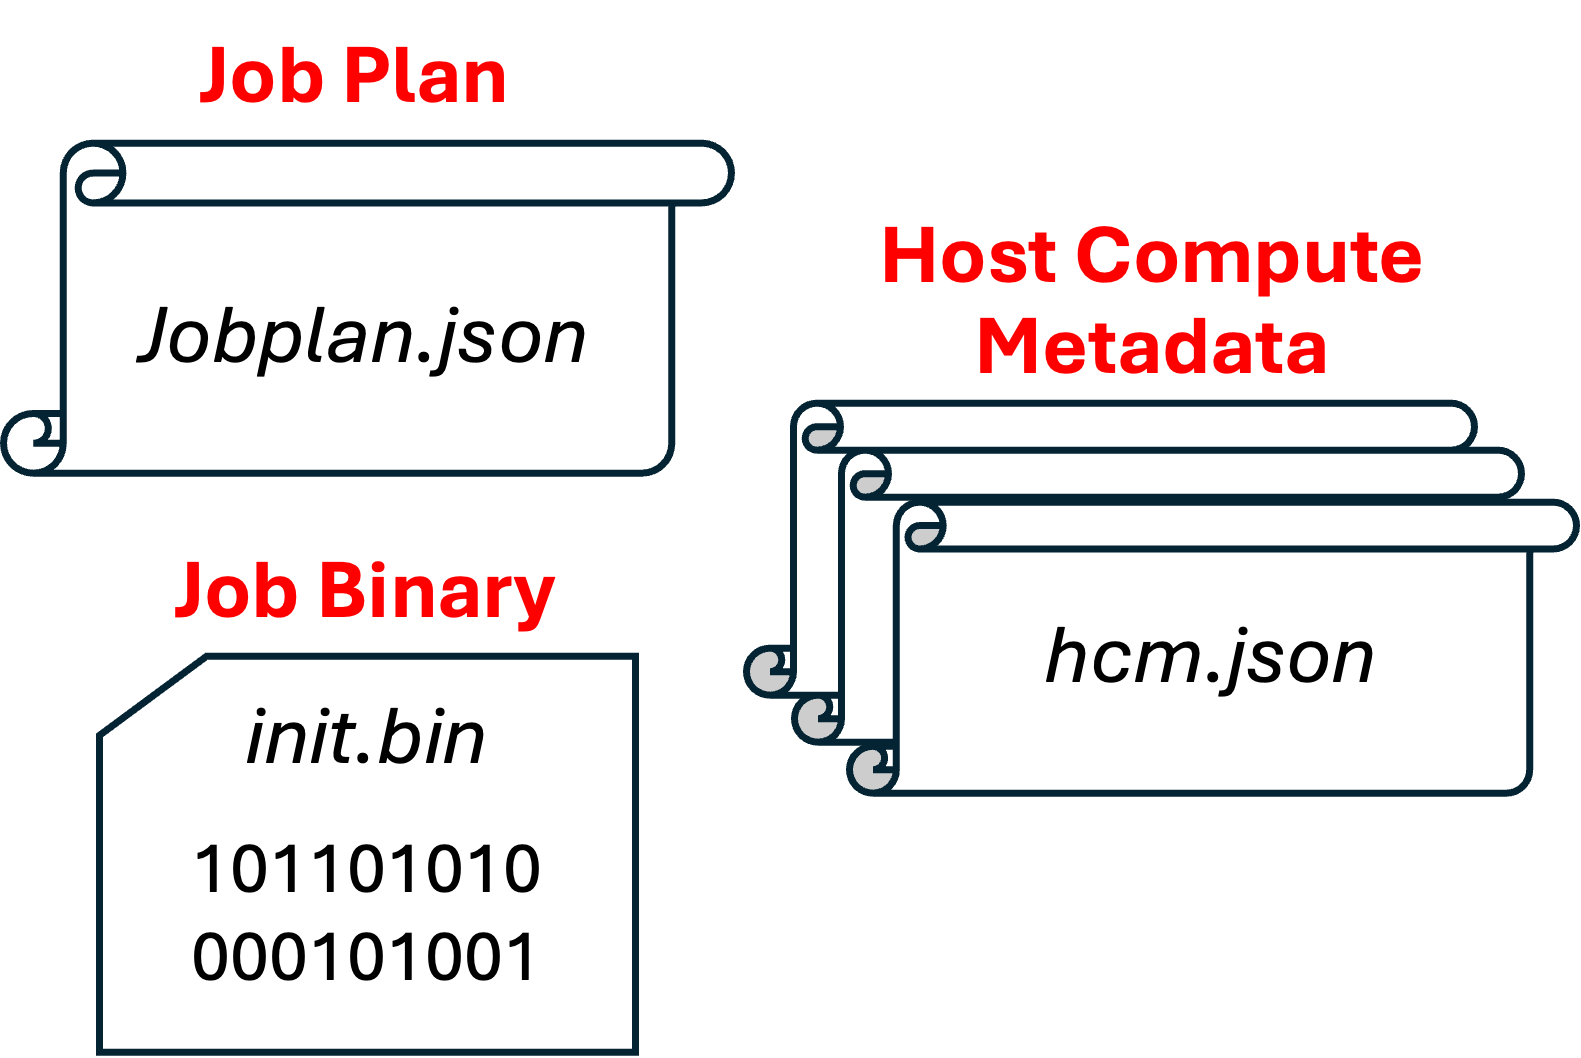
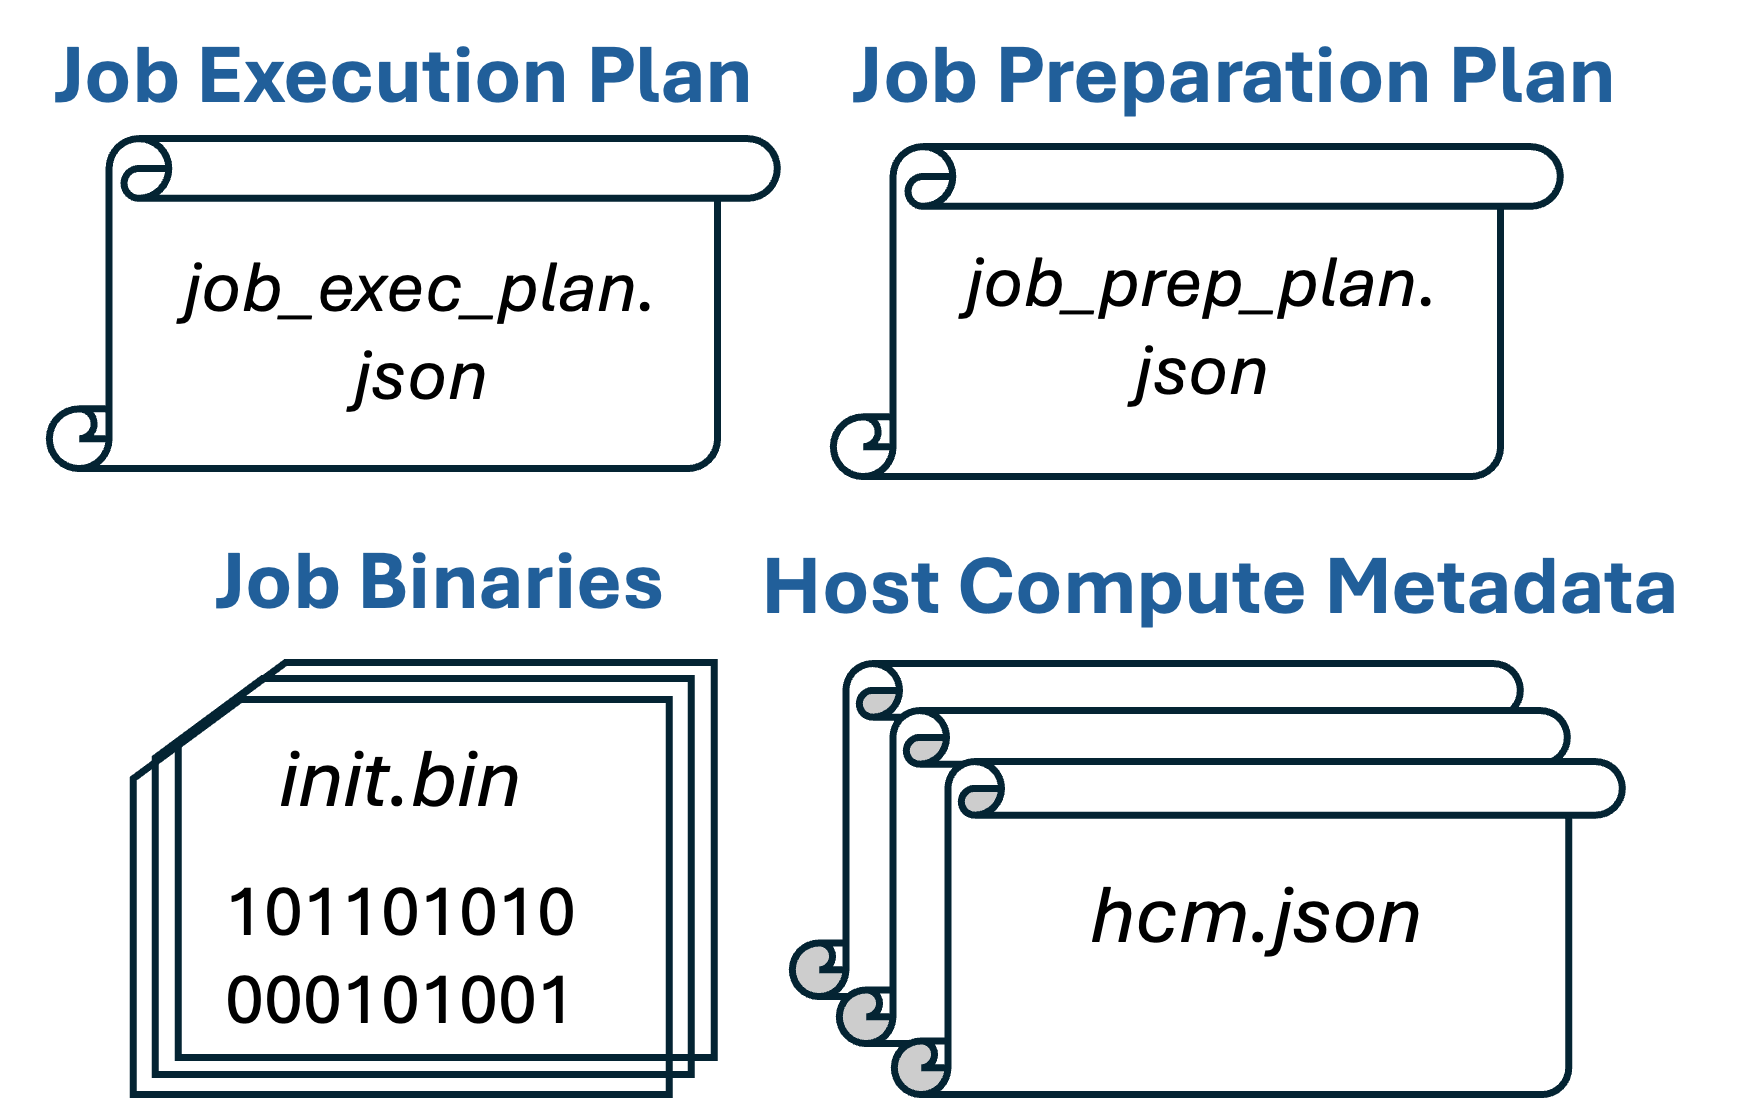
Updates to spyrecode seperating job prep and job execute plans

Changed region(s): [[0.062, 0.0312, 1.0, 0.9981], [0.0, 0.0312, 0.4649, 0.4679], [0.6199, 0.811, 0.8368, 0.8733]]

diff --git a/0277-SpyreCode/0277-SpyreCodeSpec.md b/0277-SpyreCode/0277-SpyreCodeSpec.md
@@ -18,8 +18,9 @@ The execution of a computation kernel on the Spyre device is referred to as a <u
 
 ### Components of `SpyreCode`
 `SpyreCode` facilites the runtime to execute a job on Spyre. It comprises of 3 components:
-* Job plan
-* Job Binary a.k.a. `init.bin`
+* Job execution plan
+* Job preparation plan
+* Job Binaries (a.k.a. `init.bin`)
 * Host Compute Metadata
 
 <p align="center">
@@ -33,9 +34,9 @@ In the virtual address space corresponding to a job, the last segment (SegmentId
 
 The following sections detail the different components of `SpyreCode`.
 
-### Job Plan
+### Job Execution Plan
 
-The Job plan is a JSON object containing a list of commands (List\<JobPlanCommand\>). The runtime executes the commands in sequence to complete the execution of the job. Each command in the job plan is comprised of a command type and its associated attributes.
+The job execution plan is a JSON object containing a list of commands (List\<JobExecPlanCommand\>). The runtime executes the commands in sequence to complete the execution of the job. Each command in the job plan is comprised of a command type and its associated attributes.
 
 The command types in `JobPlanCommand` and their attributes are explained below:
 * `ComputeOnHost`: Triggers execution of a predefined host function API. Its attributs are:
@@ -51,15 +52,25 @@ The command types in `JobPlanCommand` and their attributes are explained below:
   * `host_handle`: A handle for the tensor on the host side.
   * `size`: Size of the data transfer (in Bytes)
   * `dev_ptr`: Starting virtual address where the tensor resides in the device (limited to SegmentId=7). Spyre requires start address to be a multiple of 128B.
+
+### Job Preparation Plan
+
+The job preparation plan is a JSON object containing a list of commands (List\<JobPrepPlanCommand\>). The runtime executes the commands in sequence as a preparation to running the actual job (as given by Job execution plan) on Spyre. The job preparation plan needs to be executed only once, and every subsequent invokation of the job does not need the preperation step. Each command in the job plan is comprised of a command type and its associated attributes.
+
 * `Allocate`: Requests the runtime to allocate space on the device memory. From a virtual address point-of-view, the space is allocated in SegmentId=7 starting from address 0. The 3 uses of the space are: (a) to store the job binary (programs that will run on Spyre cores), (b) to store data needed to effect program correction supporting symbolic start address and tensor/compute shapes and (c) (if required) intermediate data tensors that are allocated in the device memory during backend compilation.
   * `size`: Size of allocation (in Bytes)
   * `breakdown_jobbinary`: Size of job binary (in Bytes)
   * `breakdown_correctiondata`: Size of the data needed for program correction owing to symbolic start address and shapes (in Bytes)
   * `breakdown_tensordata`: Size of intermediate data tensors that spilled over to device memory (in Bytes)
 
-### Job Binary a.k.a. `init.bin`
+* `InitTransfer`: Triggers the transfer of the init (`init.bin`) from host to Spyre. 
+  * `file_path`: Path of `init.bin` file on the host side.
+  * `size`: Size of the init transfer (in Bytes)
+  * `dev_ptr`: Starting virtual address where the init resides in the device (limited to SegmentId=7). Spyre requires start address to be a multiple of 128B.
 
-The `init.bin` is a binary file (not in text format) that contains all programs for the kernel. The runtime is responsible for transferring the job binary from host to the Spyre device’s memory. The job binary is required to be placed at virtual address \<SegmentId=7, address 0\>.
+### Job Binaries a.k.a. `init.bin`
+
+The `init.bin` is a set of binary files (not in text format) that contains the inits (programs for Spyre compute cores) needed to execute the kernel. The runtime transfers the job binaries from host to the Spyre device’s memory as given by the `InitTransfer` command in the Job Preparation Plan.
 
 ### Host Compute metadata:
 
@@ -68,32 +79,48 @@ The host compute metadata is provided as an input to the `ComputeOnHost` job com
 
 ### Execution Flow Examples
 
-#### Example1: Job plan for execution of a kernel with fixed tensor addresses and shapes
+#### Example1: Job preparation and execution plan for a kernel with fixed tensor addresses and shapes
+
+In this example, the compute kernel has tensors with fixed addresses and shapes. 
 
 ```
+A) Job preparation plan
 1. Allocate size=49152, breakdown_jobbinary=32768, breakdown_correctiondata=0, breakdown_tensordata=16384
-2. ComputeOnDevice job_bin_ptr=0x1C00000000
+2. InitTransfer file_path=init.bin, size=32768, dev_ptr=0x1C00000080
+
+B) Job Execution plan
+1. ComputeOnDevice job_bin_ptr=0x1C00000080
 ```
 
-In this example, the compute kernel has tensors with fixed addresses and shapes. In this case, the job plan in `SpyreCode` comprises of a sequence of 2 commands, an `Allocate` and a `ComputeOnDevice`. The `Allocate` indicates total amount of memory the needs to be reserved in SegmentId=7. In this example, a total of 49512 bytes is shown in the `size` attribute. The command further provides a breakdown of the 49512 bytes into 32768 bytes used to store the job binary (`breakdown_jobbinary`) and 16384 bytes used to hold an intermediate data tensor (`breakdown_tensordata`). The `ComputeOnDevice` launches execution on Spyre with the job binary located at a virtual address of 0x1C00000000.
+The job preparation plan in `SpyreCode` comprises of a sequence of 2 commands, `Allocate` and `InitTransfer`. The `Allocate` indicates total amount of memory the needs to be reserved in SegmentId=7. In this example, a total of 49512 bytes is shown in the `size` attribute. The command further provides a breakdown of the 49512 bytes into 32768 bytes used to store the job binary (`breakdown_jobbinary`) and 16384 bytes used to hold an intermediate data tensor (`breakdown_tensordata`). The `InitTransfer` command requests runtime to move the init binary present in file `init.bin` of size 32768 into a specific offset 0x080 in SegmentId=7 (virtual Address = 0x1C00000080).
 
-#### Example2: Job plan for execution of a kernel with symbolic tensor addresses and shapes
+The job execution plan comprises of a single `ComputeOnDevice` command. The `ComputeOnDevice` launches execution on Spyre with the job binary located at a virtual address of 0x1C00000080.
+
+
+#### Example2: Job preparation and execution plan for a kernel with symbolic tensor addresses and shapes
 
 This ia a more complex example, wherein the compute kernel has tensors with symbolic start addresses and shapes. The symbol values are known only during kernel invocation and can change across consecutive lauches of the same kernel. They are fed as input arguments when the kernel is invoked.
 
-With symbolic tensor address/shapes, the job binary produced by the backend compiler cannot be executed as-is on the hardware. It needs to be edited just-in-time knowing the symbol values. This process is referred to as *program correction*. It is accomplished using the following job plan.
+With symbolic tensor address/shapes, the job binary produced by the backend compiler cannot be executed as-is on the hardware. It needs to be edited just-in-time knowing the symbol values. This process is referred to as *program correction*. It is accomplished using the following job preparation and execution plans.
 
 ```
+A) Job preparation plan
 1. Allocate size=51200, breakdown_jobbinary=32768, breakdown_correctiondata=2048, breakdown_tensordata=16384
-2. ComputeOnHost ihandle=iargs, ishape=[4], ohandle=T1, oshape=[16 128], hcm=hcm.json
-3. DataTransfer direction=0 host_handle=T1 size=2048 dev_ptr=0x1C00008000
-4. ComputeOnDevice job_bin_ptr=0x1C00000000
+2. InitTransfer file_path=init.bin, size=32768, dev_ptr=0x1C00000090
+
+B) Job Execution plan
+1. ComputeOnHost ihandle=iargs, ishape=[4], ohandle=T1, oshape=[16 128], hcm=hcm.json
+2. DataTransfer direction=0 host_handle=T1 size=2048 dev_ptr=0x1C00000080
+3. ComputeOnDevice job_bin_ptr=0x1C00000090
 ```
 
-In this case, the job plan comprises of 4 commands.
+The job prepration plan is comprised of 2 commands. 
 * The first command is `Allocate` where 51200 bytes of data is requested, 32768 bytes for the job binary, 16384 bytes for tensor data and an additional 2048 bytes for storing data needed for program correction.
-* The second command is to execute a host function `ComputeOnHost`, which takes the input arguments (4 in this case) and the host compute metadata (*hcm.json*) as its inputs, and produces a data tensor (T1) needed for program correction. The *hcm.json* contains information pertaining to how the input arguments (symbols) must be interpreted in the context of the job binary. For example, if a shape of a dimension in a tensor is symbolic during compilation, then its value (provided as part of input arguments) will be used to correct one of loop counts in the job binary.
-* The third command transfers T1 to the device to a specific location indicated by the *dev_ptr*
+* The second command `InitTransfer` moves the job binary to Spyre. 
+
+Next, the job executplan comprises of 3 commands.
+* The first command is to execute a host function `ComputeOnHost`, which takes the input arguments (4 in this case) and the host compute metadata (*hcm.json*) as its inputs, and produces a data tensor (T1) needed for program correction. The *hcm.json* contains information pertaining to how the input arguments (symbols) must be interpreted in the context of the job binary. For example, if a shape of a dimension in a tensor is symbolic during compilation, then its value (provided as part of input arguments) will be used to correct one of loop counts in the job binary.
+* The second command transfers T1 to the device to a specific location indicated by the *dev_ptr*
 * Finally, the last command executes the job binary. In this case, the job binary contains additional program instructions (which are executed on Sypre core) to first read T1 and make corrections to future program instructions. Then the corrected program instructions are executed (on Spyre cores), successfully completing the kernel execution with the desired tensor address/shape.
 
 ## **Metrics **
